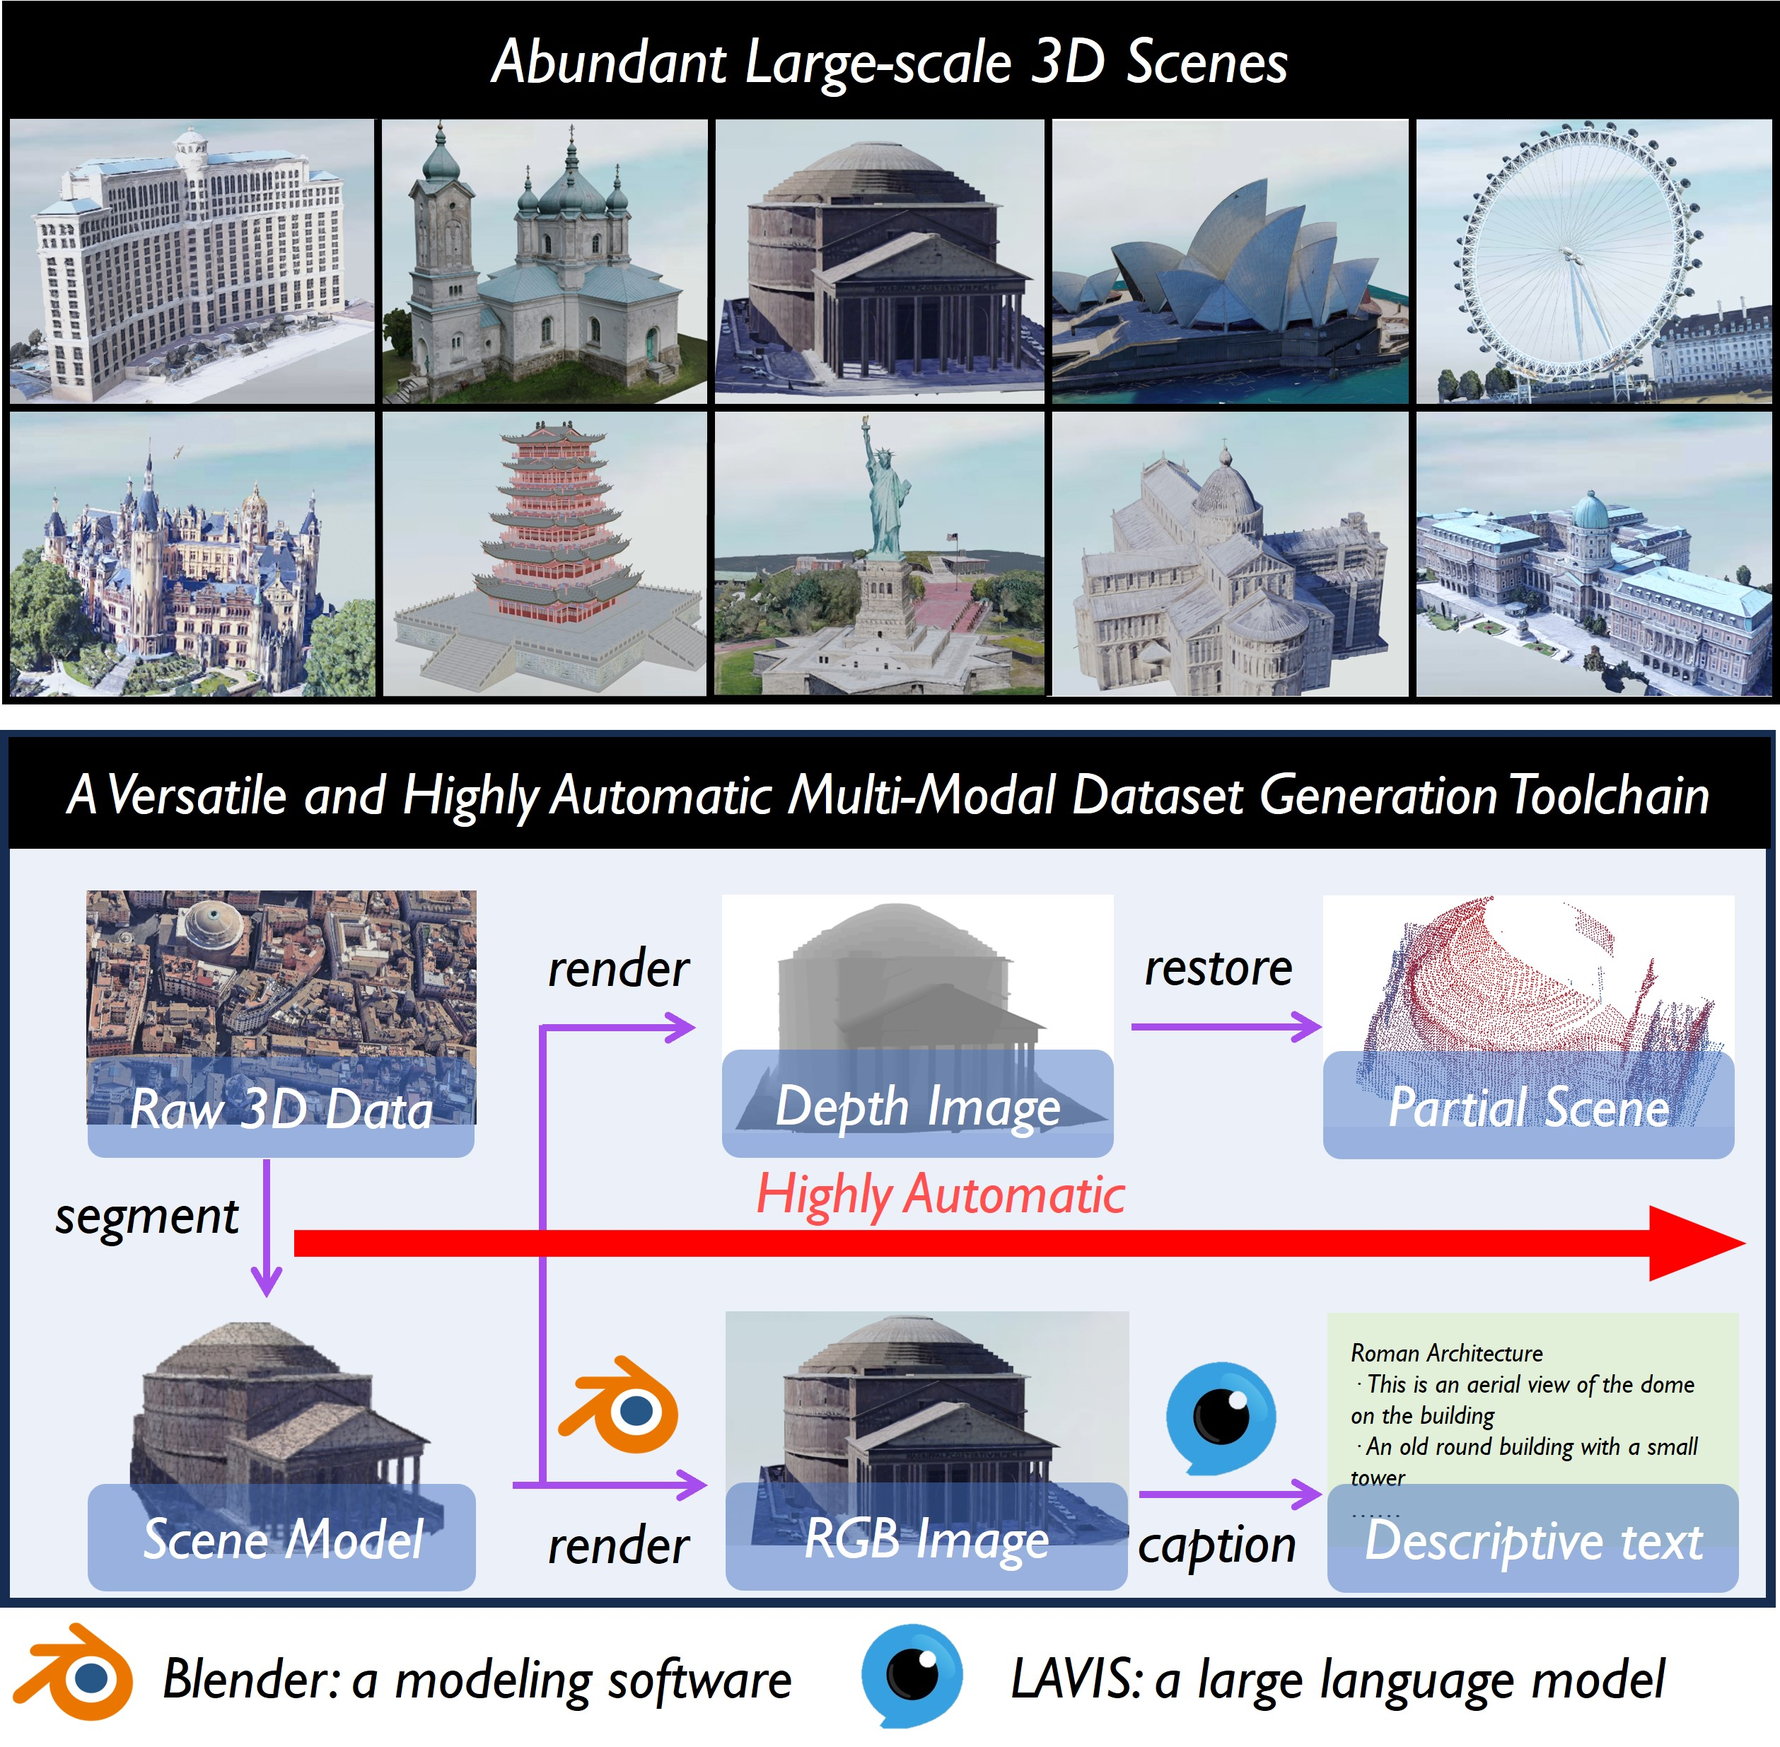
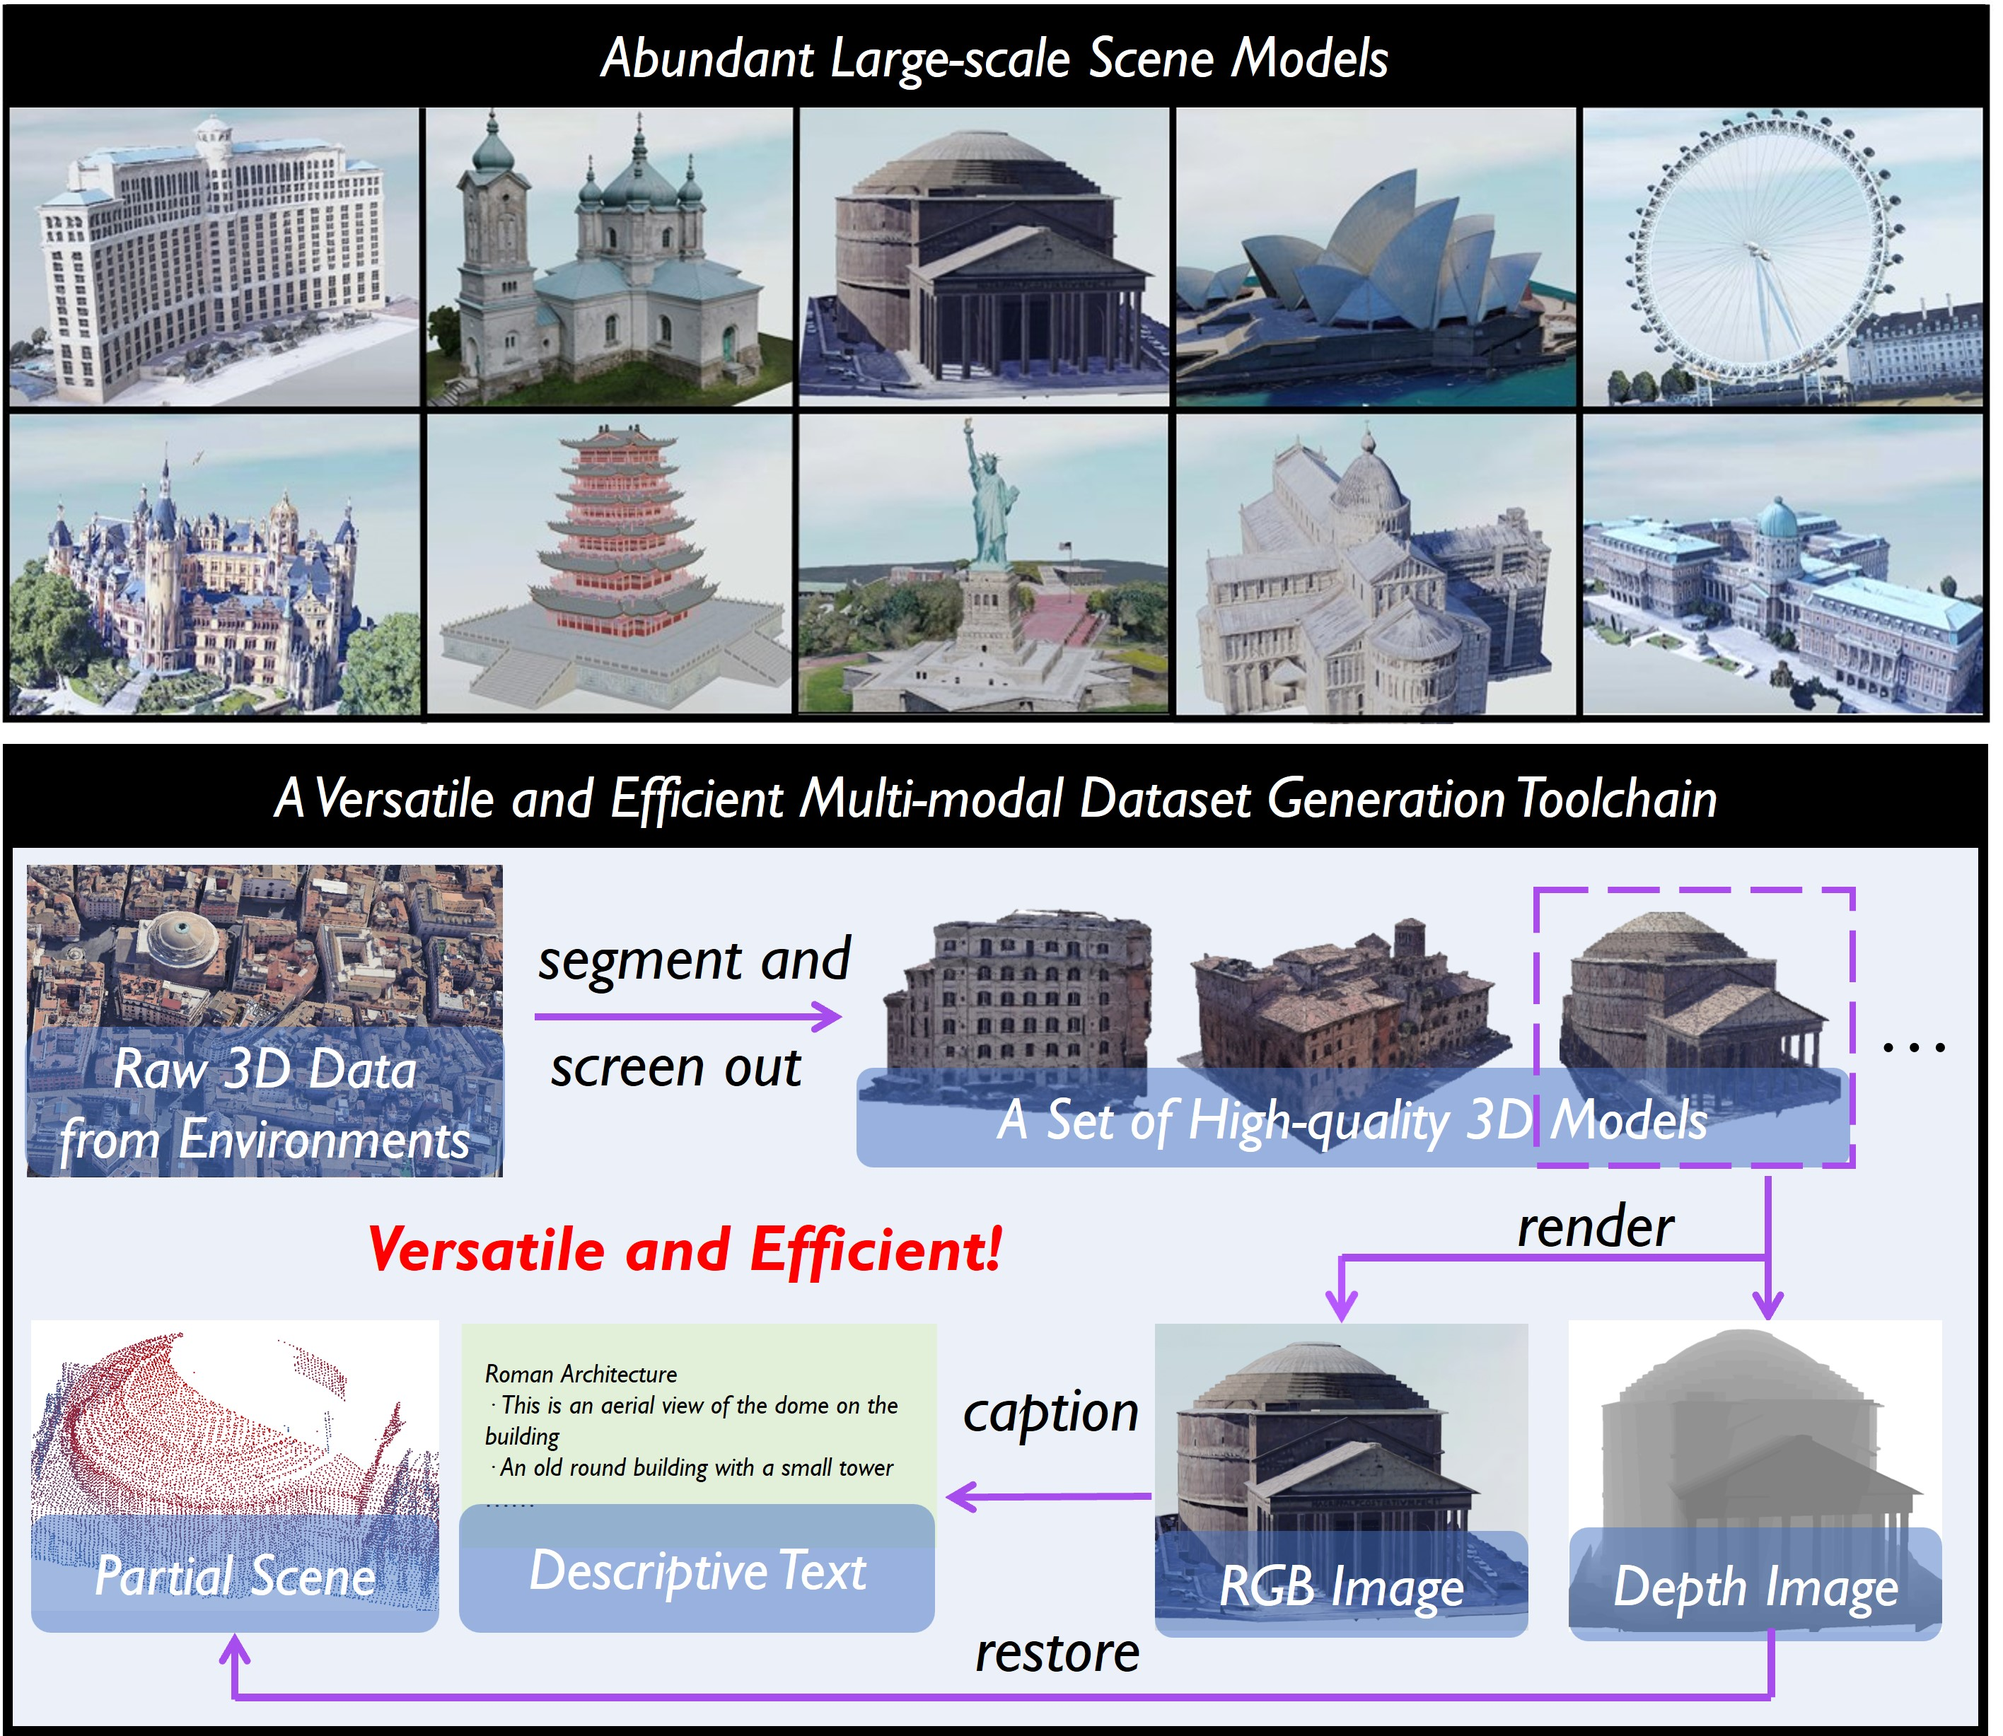
feat : update pic and caption

diff --git a/index.html b/index.html
@@ -93,9 +93,9 @@
                   <br>
               <p class="text-left">
                 <strong>
-                &nbsp;&nbsp;Surface prediction and completion have been widely studied in various applications for diverse downstream tasks. With the development of related research, surface completion algorithms have been evolving from object-level to scene-level, from virtual scenes to the real world, and from single modality to multi-modality. Current datasets exhibit unsatisfactory performance and a lack of challenge since they do not cater to the trends of research, significantly impeding the development of this field. In this paper, 
-                we developed a versatile toolchain to facilitate processing the data by segmenting the raw 3D data, selecting the valuable model from the raw 3D data, and generating multi-modal data, including RGB images, descriptive texts, depth images, and partial point clouds. Then we created an example dataset using the toolchain with a large number of collected scene-level models, including portions of real-world captured data from a wide range of open-source projects.
-                Additionally, we benchmarked different surface completion algorithms trained on our dataset and gave a comprehensive result. We compared MASSTAR with the current dataset, which validates the superiority of our dataset-toolchain system.
+                  &nbsp;&nbsp;Surface prediction and completion have been widely studied in various applications.Recently, the scope of research in surface completion technology has gradually shifted from solely focusing on simple small-scale objects to more complex large-scale scenes. As a result, researchers have begun increasing the volume of data and leveraging a greater variety of data modalities including rendered RGB images, descriptive text, depth images, etc, to enhance algorithm performance. However, existing datasets suffer from a deficiency in the amounts of scene-level models along with the corresponding multi-modal information. Therefore, a method to scale the datasets and generate multi-modal information in them efficiently is essential.
+                  To bridge this research gap, we propose <strong>MASSTAR</strong>, a <strong>m</strong>ulti-modal l<strong>a</strong>rge-scale <strong>s</strong>cene dataset with a ver<strong>s</strong>atile <strong>t</strong>oolchain for surf<strong>a</strong>ce p<strong>r</strong>ediction and completion. We develop a versatile and efficient toolchain for processing the raw 3D data from the environments. It screens out a set of fine-grained scene models and generates the corresponding multi-modal data. Utilizing the toolchain, we then generate an example dataset composed of over a thousand scene-level models with partial real-world data added.
+                  We compare MASSTAR with the existing datasets, which validates its superiority: the ability to efficiently extract high-quality models from complex scenarios to expand the dataset. Additionally, several representative surface completion algorithms are benchmarked on MASSTAR, which reveals that existing algorithms can hardly deal with scene-level completion. We release the source code of our toolchain and the dataset.
               </strong>
               </p>
             </div>
@@ -105,73 +105,103 @@
   </section>
   <!-- <br> -->
 
-<!-- Method -->
-  <section>
-    <div class="container">
-        <div class="warp-container">
-          <div class="row">
-            <div class="col-12 text-center">
-              <h4>Multi-modal Dataset Generation Toolchain</h4>
-                <hr style="margin-top:0px">
-                <!-- <h6 style="color:#8899a5" class="text-left"> 
-                  TGS enables fast reconstruction from single-view image. It builds the 3D representation upon a hybrid Triplane-Gaussian representation by evaluating a transformer-based framework, from which 3D Gaussians would be decoded.
-                </h6> -->
-                
-                <h5  class="text-center"> 
-                  A. 3D Scene Segmentation
-                </h5>
-                <img src="https://raw.githubusercontent.com/SYSU-STAR/MASSTAR/gh_page/assets/imgs/sam_new.jpg" alt="Overview" width="75%">
-                <br><br>
-                <p class="text-left">
-                  An Overview of 3D Raw Data Segmentation. Initially, we generate the depth image and RGB image by rendering a bird's-eye view of the scene. Users have the option to employ SAM for segmenting top-view images through manual selection or fully automated methods. Subsequently, the 3D model is sliced using Blender Python, and CLIP is utilized to filter out non-architectural categories.
-                </p>
-                <!-- <br> -->
 
-                <h5  class="text-center"> 
-                  B. Images Rendering
-                </h5>
-                <img src="https://raw.githubusercontent.com/SYSU-STAR/MASSTAR/gh_page/assets/imgs/render.jpg" alt="Overview" width="75%">
-                <br><br>
-                <p class="text-left">
-                  An example of the image rendering part of the toolchain. We offer the random mode (left) and trajectory mode (right) for users to choose from.
-                </p>
 
-                <h5  class="text-center"> 
-                  C. Descriptive Texts
-                </h5>
-                <img src="https://raw.githubusercontent.com/SYSU-STAR/MASSTAR/gh_page/assets/imgs/text_new.jpg" alt="Overview" width="75%">
-                <br><br>
-                <p class="text-left">
-                  An example of the descriptive text rendering part of the toolchain. We utilize BLIP to perform zero-shot image-to-text generation.
-                </p>
+<!-- toolChain example -->
+<section>
+  <div class="container">
+      <div class="warp-container">
+        <div class="row">
+          <div class="col-12 text-center">
+            <h4>Multi-modal Dataset Generation Toolchain</h4>
+              <hr style="margin-top:0px">
+              <!-- <h6 style="color:#8899a5" class="text-left"> 
+                TGS enables fast reconstruction from single-view image. It builds the 3D representation upon a hybrid Triplane-Gaussian representation by evaluating a transformer-based framework, from which 3D Gaussians would be decoded.
+              </h6> -->
+              
+              <h5  class="text-center"> 
+                A. 3D Scene Segmentation
+              </h5>
+              <img src="https://raw.githubusercontent.com/SYSU-STAR/MASSTAR/gh_page/assets/imgs/sam_new.jpg" alt="Overview" width="75%">
+              <br><br>
+              <p class="text-left">
+                An Overview of 3D Raw Data Segmentation. Initially, we generate the depth image and RGB image by rendering a bird's-eye view of the scene. Users have the option to employ SAM for segmenting top-view images in manual mode or automatic mode. Subsequently, the 3D model is sliced using Blender, and then CLIP is utilized to filter out non-architectural categories.
+              </p>
+              <!-- <br> -->
 
-                <h5  class="text-center"> 
-                  D. Partial Point Cloud
-                </h5>
-                <img src="https://raw.githubusercontent.com/SYSU-STAR/MASSTAR/gh_page/assets/imgs/partial_gif.gif" alt="Overview" width="75%">
-                <br><br>
-                <p class="text-left">
-                  An example of the partial point cloud render part of the toolchain.
-                </p>
-                <!-- <br> -->
-                  <!-- <video width="100%" playsinline="" autoplay="autoplay" loop="loop" preload="" muted="">
-                      <source src="video/teaser.mp4" type="video/mp4">
-                  </video> -->
+              <h5  class="text-center"> 
+                B. Images Rendering
+              </h5>
+              <img src="https://raw.githubusercontent.com/SYSU-STAR/MASSTAR/gh_page/assets/imgs/render.jpg" alt="Overview" width="75%">
+              <br><br>
+              <p class="text-left">
+                An example of the image rendering part of the toolchain. We offer the random mode (left) and trajectory mode (right) for users.
+              </p>
 
-              <!-- <p class="text-left">
-                &nbsp;&nbsp; We use an advanced AI model segment anything mobile(SAM)  that has shown excellent performance in segmenting complex and diverse images with the ability to perform panoramic segmentation. The front end applies it to segment the bird-eye view image of the 3D scene. The back end uses the Blender Python to segment the 3D scene according to the boundary returned by the front end.
-                <br>
-                &nbsp;&nbsp; In the automatic segmentation method, since SAM does not have the semantic information of the scene, we will inevitably encounter some non-architectural structures (such as roads, trees, etc.). In consideration of improving the segmentation quality, we use contrastive language-image pre-training model(CLIP) to remove these non-architectural structures. CLIP is a multi-modal pre-training model. It uses more detailed image text descriptions, which can help vision encoder learn better visual features with stronger generalization capabilities. We first use SAMto segment all the scenes and use CLIP to judge whether it belongs to the building through the image rendered by the scene, to filter out the non-architectural structures.
-                <br>
-                &nbsp;&nbsp; In the manual segmentation method, users have the option to select the desired area either by using a rectangle tool in the bird-eye view or by clicking on the segmented area identified by SAM. This enables them to directly access the corresponding detailed 3D scene.
-              </p> -->
+              <h5  class="text-center"> 
+                C. Descriptive Texts
+              </h5>
+              <img src="https://raw.githubusercontent.com/SYSU-STAR/MASSTAR/gh_page/assets/imgs/text_new.jpg" alt="Overview" width="75%">
+              <br><br>
+              <p class="text-left">
+                An example of the descriptive text rendering part of the toolchain. BLIP is employed to perform zero-shot image-to-text generation.
+              </p>
 
-            </div>
+              <h5  class="text-center"> 
+                D. Partial Point Cloud
+              </h5>
+              <img src="https://raw.githubusercontent.com/SYSU-STAR/MASSTAR/gh_page/assets/imgs/partial_gif.gif" alt="Overview" width="75%">
+              <br><br>
+              <p class="text-left">
+                An example of the partial point cloud render part of the toolchain.
+              </p>
+              <!-- <br> -->
+                <!-- <video width="100%" playsinline="" autoplay="autoplay" loop="loop" preload="" muted="">
+                    <source src="video/teaser.mp4" type="video/mp4">
+                </video> -->
+
+            <!-- <p class="text-left">
+              &nbsp;&nbsp; We use an advanced AI model segment anything mobile(SAM)  that has shown excellent performance in segmenting complex and diverse images with the ability to perform panoramic segmentation. The front end applies it to segment the bird-eye view image of the 3D scene. The back end uses the Blender Python to segment the 3D scene according to the boundary returned by the front end.
+              <br>
+              &nbsp;&nbsp; In the automatic segmentation method, since SAM does not have the semantic information of the scene, we will inevitably encounter some non-architectural structures (such as roads, trees, etc.). In consideration of improving the segmentation quality, we use contrastive language-image pre-training model(CLIP) to remove these non-architectural structures. CLIP is a multi-modal pre-training model. It uses more detailed image text descriptions, which can help vision encoder learn better visual features with stronger generalization capabilities. We first use SAMto segment all the scenes and use CLIP to judge whether it belongs to the building through the image rendered by the scene, to filter out the non-architectural structures.
+              <br>
+              &nbsp;&nbsp; In the manual segmentation method, users have the option to select the desired area either by using a rectangle tool in the bird-eye view or by clicking on the segmented area identified by SAM. This enables them to directly access the corresponding detailed 3D scene.
+            </p> -->
+
           </div>
         </div>
-    </div>
-  </section>
-  <!-- <br> -->
+      </div>
+  </div>
+</section>
+<!-- <br> -->
+
+<!-- Method -->
+<section>
+  <div class="container">
+      <div class="warp-container">
+        <div class="row">
+          <div class="col-12 text-center">
+            <h4>Toolchain Tested on Existing Datasets</h4>
+              <hr style="margin-top:0px">
+              <!-- <h6 style="color:#8899a5" class="text-left"> 
+                TGS enables fast reconstruction from single-view image. It builds the 3D representation upon a hybrid Triplane-Gaussian representation by evaluating a transformer-based framework, from which 3D Gaussians would be decoded.
+              </h6> -->
+<!--                 
+              <h5  class="text-center"> 
+                A. 3D Scene Segmentation
+              </h5> -->
+              <img src="https://raw.githubusercontent.com/SYSU-STAR/MASSTAR/gh_page/assets/imgs/toolchain_example.jpg" alt="Overview" width="85%">
+              <br><br>
+              <p class="text-left">
+                Some examples of independent data processing using the proposed toolchain on the existing datasets.
+              </p>
+
+          </div>
+        </div>
+      </div>
+  </div>
+</section>
+<!-- <br> -->
 
   <section>
     <div class="container">
@@ -217,7 +247,7 @@
                 <h6 style="color:#8899a5" class="text-left"> 
                   We conducted a comparative analysis of three surface prediction and completion algorithms, including SPM, PCN, and XMFnet.
                 </h6>
-                <img src="https://raw.githubusercontent.com/SYSU-STAR/MASSTAR/gh_page/assets/imgs/result.gif" alt="ablation-representation" width="99%">
+                <img src="https://raw.githubusercontent.com/SYSU-STAR/MASSTAR/gh_page/assets/imgs/result.jpg" alt="ablation-representation" width="99%">
                 <!-- <br>
                 <p class="text-center">
                    result 
